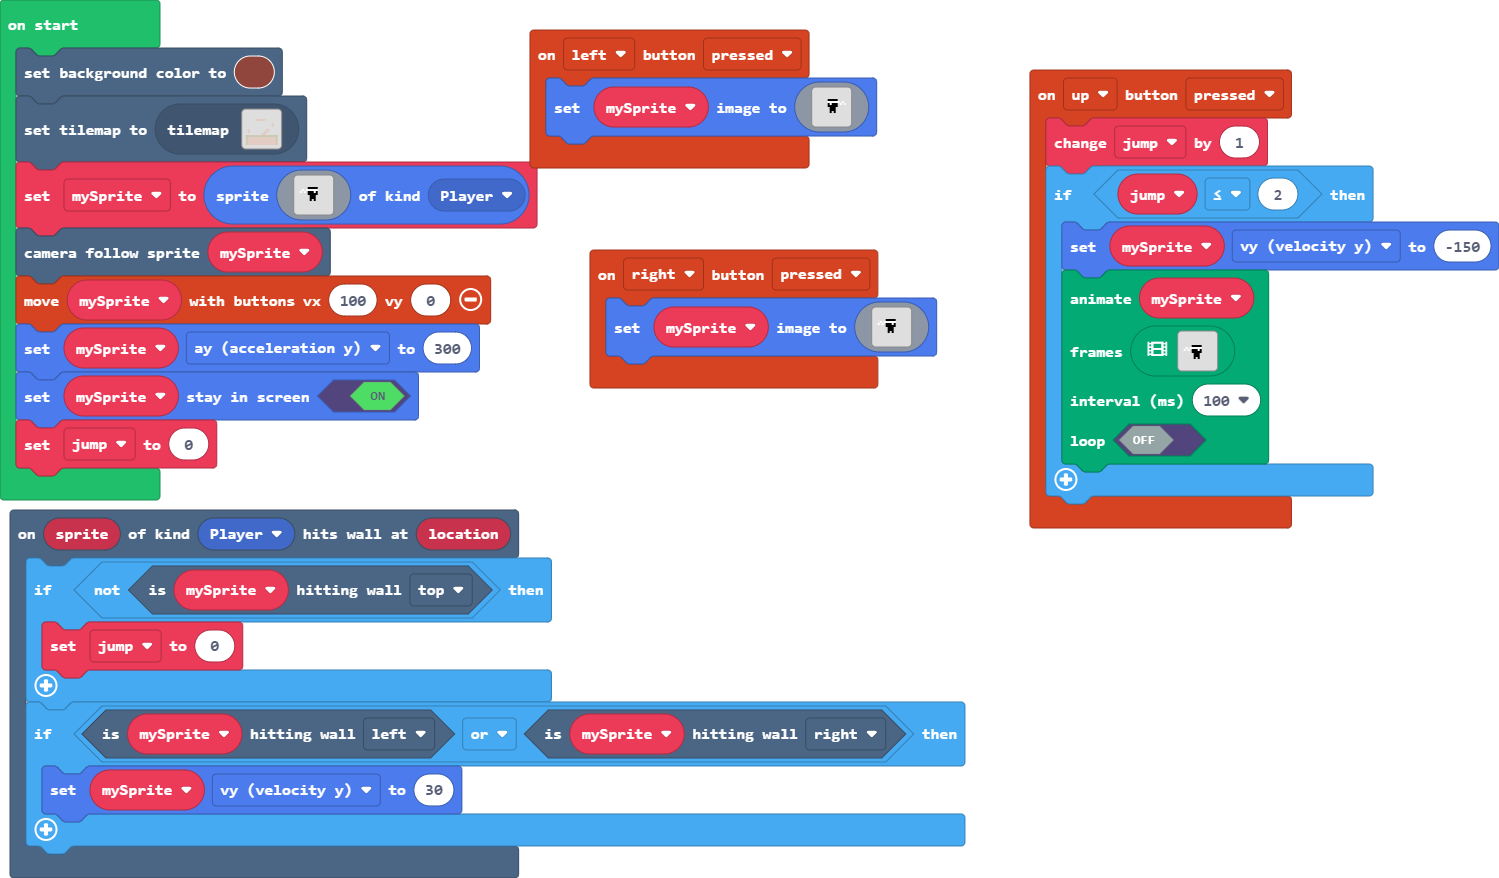
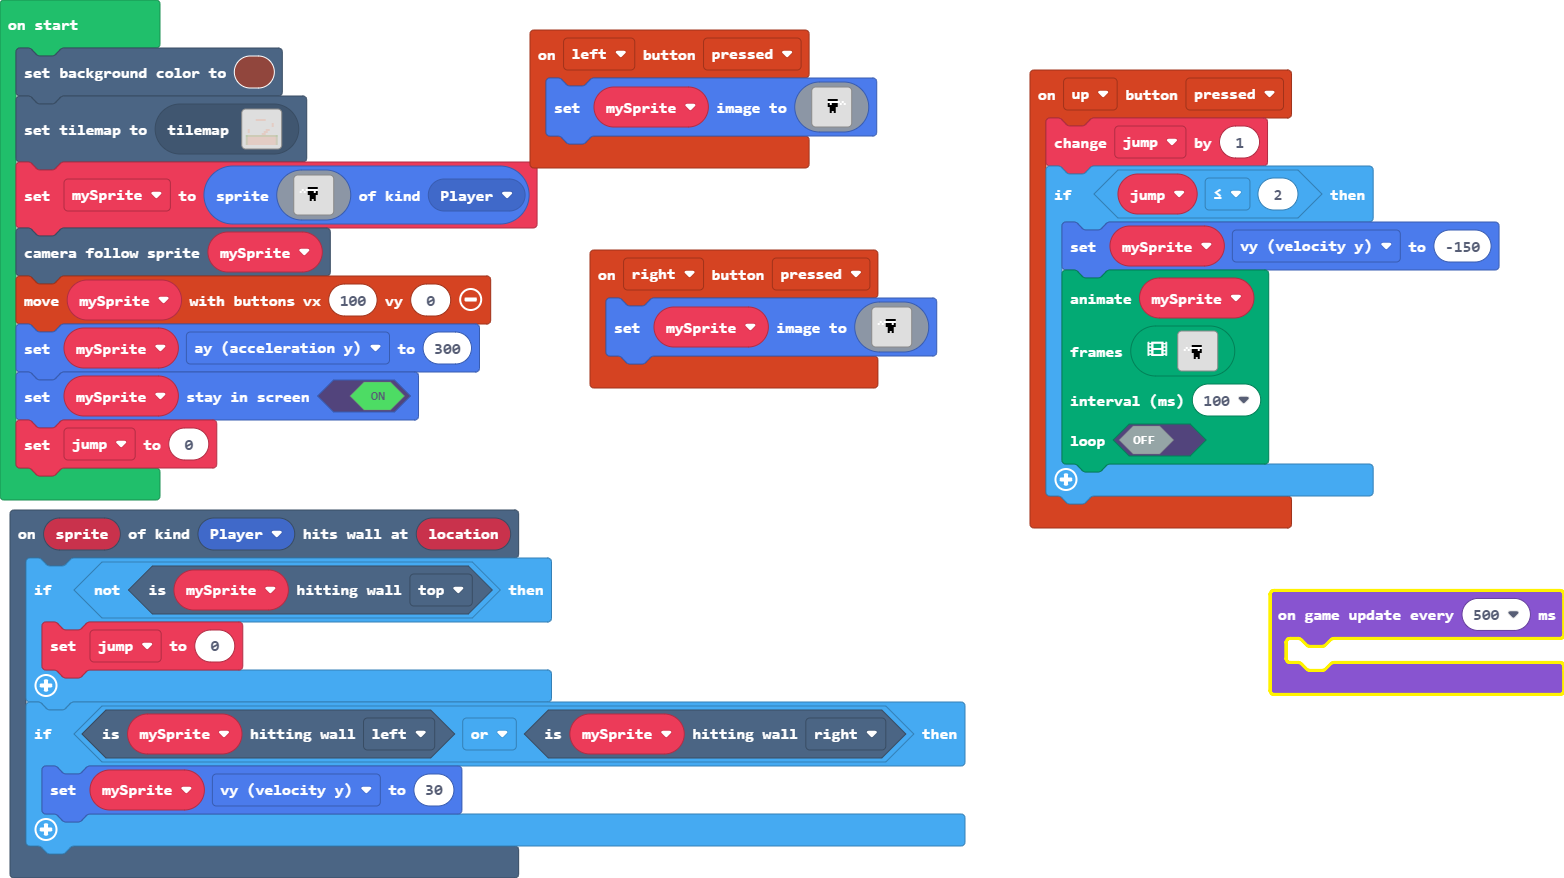
Update main.blocks, main.ts

diff --git a/main.ts b/main.ts
@@ -170,3 +170,6 @@ controller.moveSprite(mySprite, 100, 0)
 mySprite.ay = 300
 mySprite.setStayInScreen(true)
 jump = 0
+game.onUpdateInterval(500, function () {
+	
+})
